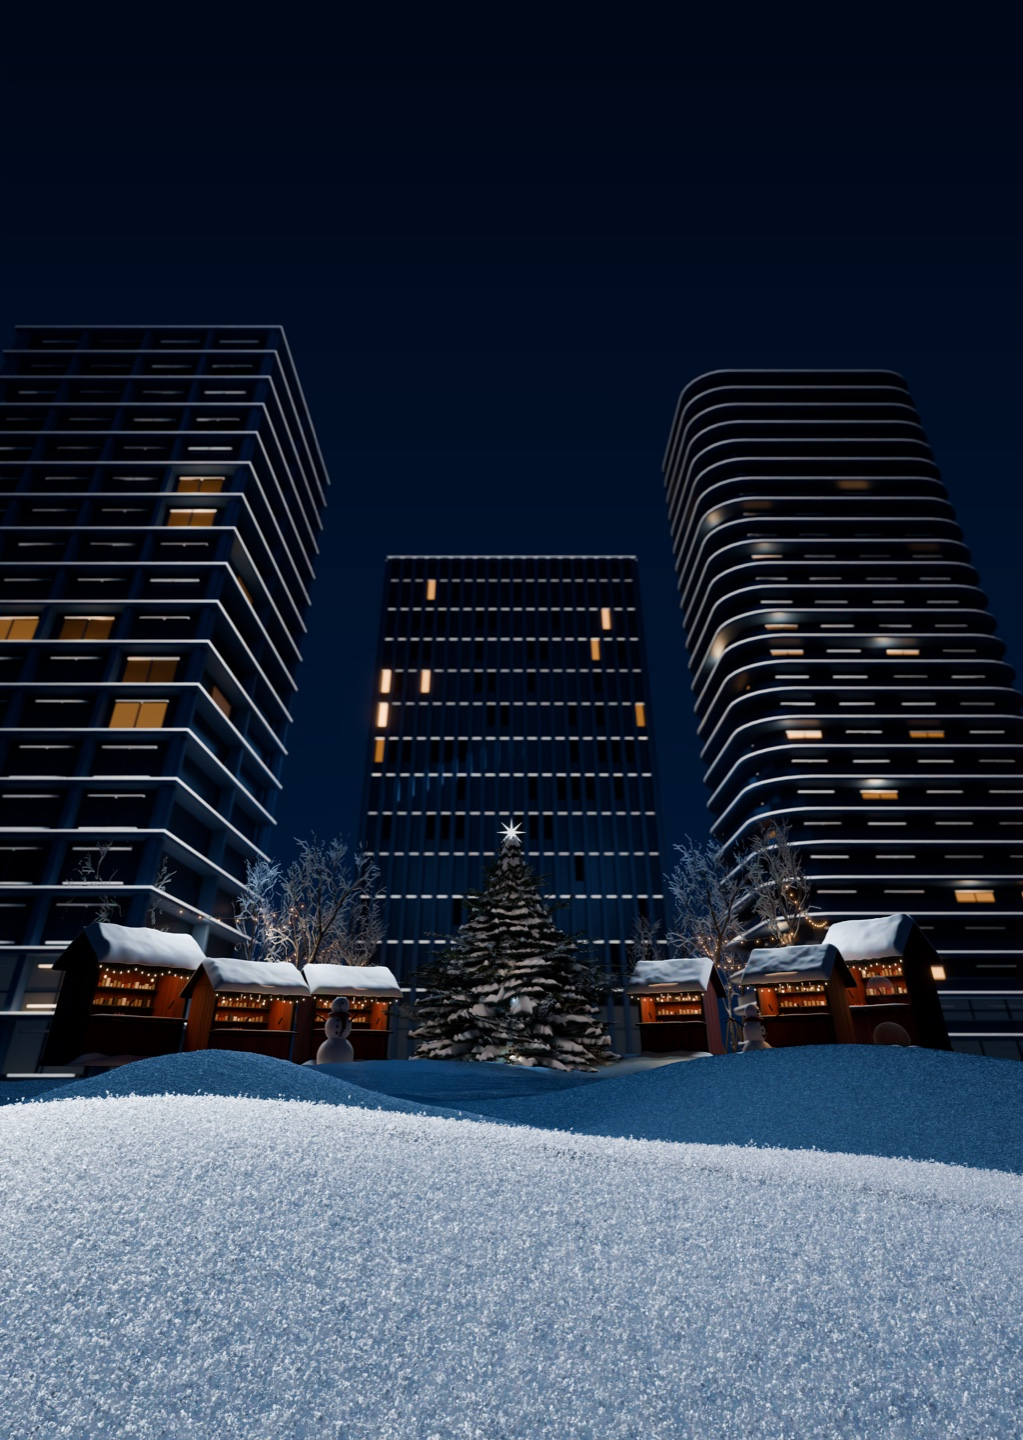
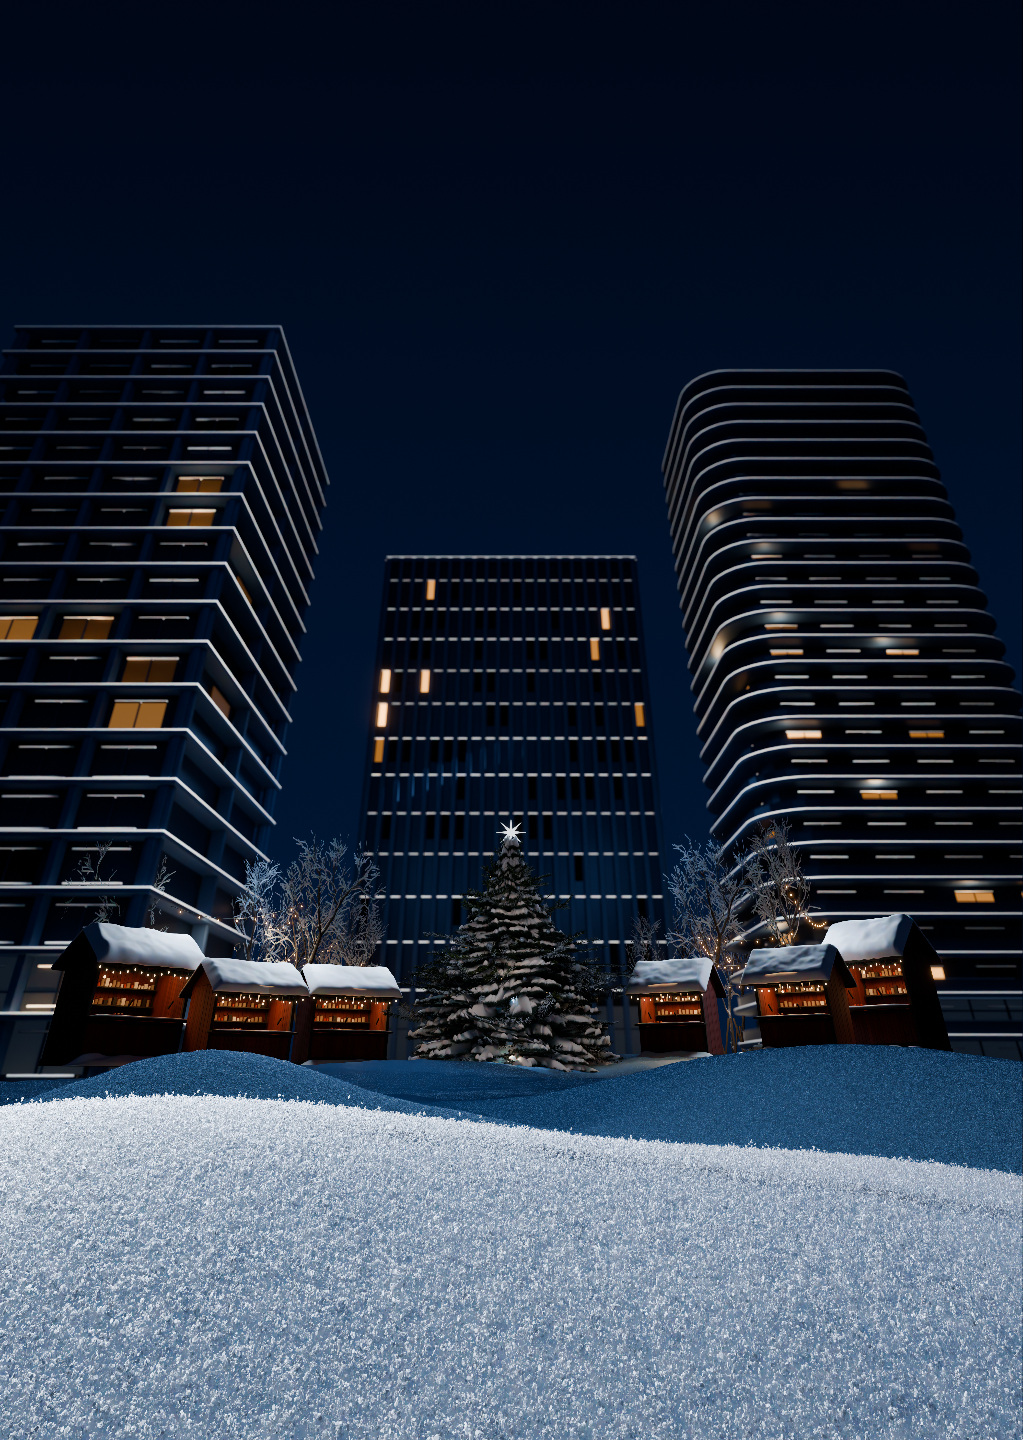
fix: マーケット前の雪だるま2体を削除した背景に差し替え

diff --git a/index.html b/index.html
@@ -35,13 +35,13 @@
     <link
       rel="preload"
       as="image"
-      href="img/optimized/motion/marc-scene.712f6633fe08.webp"
+      href="img/optimized/motion/marc-scene.c6d4145aa2b9.webp"
       media="(min-width: 761px)"
     />
     <link
       rel="preload"
       as="image"
-      href="img/optimized/motion/marc-scene-mobile.c93bfc0d2096.webp"
+      href="img/optimized/motion/marc-scene-mobile.584e526a7096.webp"
       media="(max-width: 760px)"
     />
     <link rel="stylesheet" href="snow-lp.css?v=d8e5c41d08ee" />
@@ -70,7 +70,7 @@
       }
     </script>
     <link rel="stylesheet" href="snow-placeholder.css?v=7df30855af22" />
-    <link rel="stylesheet" href="snow-world.css?v=f1ed5bb9e08f" />
+    <link rel="stylesheet" href="snow-world.css?v=d4f251c8c420" />
     <link rel="stylesheet" href="snow-header.css?v=027437d4758c" />
     <link rel="stylesheet" href="site-shell.css?v=c34150d89fc5" />
     <link rel="stylesheet" href="people.css?v=35d9bbc16eaa" />
@@ -211,10 +211,10 @@
           <picture class="kv__art"
             ><source
               media="(max-width: 760px)"
-              srcset="img/optimized/motion/marc-scene-mobile.c93bfc0d2096.webp" />
+              srcset="img/optimized/motion/marc-scene-mobile.584e526a7096.webp" />
             <img
               class="kv__bg"
-              src="img/optimized/motion/marc-scene.712f6633fe08.webp"
+              src="img/optimized/motion/marc-scene.c6d4145aa2b9.webp"
               alt=""
               fetchpriority="high"
               width="1920"

diff --git a/templates/pages/index.html b/templates/pages/index.html
@@ -35,13 +35,13 @@
     <link
       rel="preload"
       as="image"
-      href="img/optimized/motion/marc-scene.712f6633fe08.webp"
+      href="img/optimized/motion/marc-scene.c6d4145aa2b9.webp"
       media="(min-width: 761px)"
     />
     <link
       rel="preload"
       as="image"
-      href="img/optimized/motion/marc-scene-mobile.c93bfc0d2096.webp"
+      href="img/optimized/motion/marc-scene-mobile.584e526a7096.webp"
       media="(max-width: 760px)"
     />
     <link rel="stylesheet" href="snow-lp.css" />
@@ -90,10 +90,10 @@
           <picture class="kv__art"
             ><source
               media="(max-width: 760px)"
-              srcset="img/optimized/motion/marc-scene-mobile.c93bfc0d2096.webp" />
+              srcset="img/optimized/motion/marc-scene-mobile.584e526a7096.webp" />
             <img
               class="kv__bg"
-              src="img/optimized/motion/marc-scene.712f6633fe08.webp"
+              src="img/optimized/motion/marc-scene.c6d4145aa2b9.webp"
               alt=""
               fetchpriority="high"
               width="1920"

diff --git a/shops.html b/shops.html
@@ -17,7 +17,7 @@
     />
     <link rel="stylesheet" href="style.css?v=8e20fc5221a1" />
     <link rel="stylesheet" href="snow-placeholder.css?v=7df30855af22" />
-    <link rel="stylesheet" href="snow-world.css?v=f1ed5bb9e08f" />
+    <link rel="stylesheet" href="snow-world.css?v=d4f251c8c420" />
     <link
       href="https://fonts.googleapis.com/css2?family=Cormorant+Garamond:wght@400;500;600&family=Noto+Serif+JP:wght@400;500;600&display=swap"
       rel="stylesheet"

diff --git a/snow-world.css b/snow-world.css
@@ -34,7 +34,7 @@
   left: 0;
   right: 0;
   height: 125px;
-  background: url('img/optimized/motion/marc-scene.712f6633fe08.webp') center bottom/100% auto;
+  background: url('img/optimized/motion/marc-scene.c6d4145aa2b9.webp') center bottom/100% auto;
   filter: brightness(1.65) saturate(0.35);
   mask-image: linear-gradient(transparent, #000 80%);
   pointer-events: none;

diff --git a/docs/assets.md b/docs/assets.md
@@ -2,7 +2,7 @@
 
 | Asset group | Purpose / origin | Current use |
 | --- | --- | --- |
-| `img/motion/marc-scene*.jpg` | Prepared MARC scene renders; user identifies v89 as latest master | Optimized derivatives in hero; desktop/mobile source selection |
+| `img/motion/marc-scene*.jpg` | v89 camera/compositor with supplied 2026-11-01 native TREE_GARDEN plates removing both market snowmen | Optimized derivatives in hero; desktop/mobile source selection |
 | `img/design/snow-christmas-logo.png` | Supplied event logo export | Lossless WebP derivative; no shape/color changes |
 | `img/logo/meguro-marc-wordmark-white.svg` | Supplied Illustrator outline; details in `img/logo/README.md` | Hero venue wordmark |
 | `img/motion/foreground-branches.webp` | Snowy branch artwork | Reused for forest opening and margins |
@@ -27,3 +27,5 @@ Visually inspect photographic derivatives after export. The normal build/check p
 A filename alone is not evidence of Blender master version or licensing. The relationship between prepared renders and the supplied v89 master should be retained with future export records. Existing attribution is preserved; this refactor does not assert a new rights clearance.
 
 Foreground exports are recorded in `config/hero-props.json` with source/output SHA-256 hashes and dimensions. Run `python3 scripts/export-hero-props.py /path/to/V89_PROPS_ONLY_20261028/delivery` to reproduce them. The export splits the transparent central gutter, retains the full camera frame and local contact shadows, and downsamples to WebP. Three files total about 79 KB; each viewport loads two files. The mobile snowman reuses the 16:9 export, fitted around its portrait foot position. A CSS-only 1.15 vertical scale corrects its squat appearance on the site, anchored at the native foot point; the source image is unchanged. Native masters stay in the art delivery folder. Motion shares the existing animation loop, pause/reduced-motion state, and offscreen/hidden-page suspension.
+
+Background exports are recorded in `config/hero-backgrounds.json`. They use the supplied `market_snowmen_removal_v74_20261101/patched_plates` replacement for `TREE_GARDEN` in the v89 `FINAL_*_COMPOSITE` scenes. Export at the existing web dimensions, with falling-snow, volume and crystal layers disabled so the site continues to animate these independently. Foreground gift/snowman layers and their animation are unchanged. The scene JPEGs are replaceable web exports; original Blender masters and native plates remain outside this repository.
